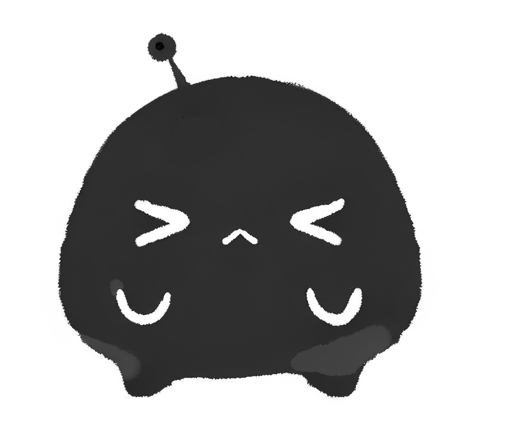
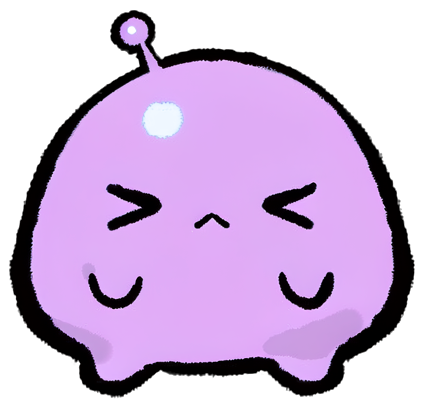
Replace alien slime with purple illustration and tilt card artwork

diff --git a/src/styles/global.css b/src/styles/global.css
@@ -517,11 +517,12 @@ a:focus-visible,button:focus-visible,summary:focus-visible,[tabindex]:focus-visi
 }
 .art-alien-image {
   display:block;
-  width:100%;
+  width:90%;
   max-width:280px;
   height:auto;
-  max-height:230px;
-  object-fit:contain
+  max-height:210px;
+  object-fit:contain;
+  transform:rotate(-9deg)
 }
 .explore-ranger {
   background:#272725;
